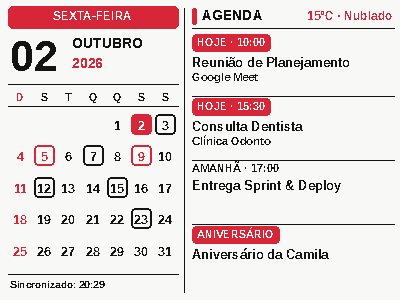
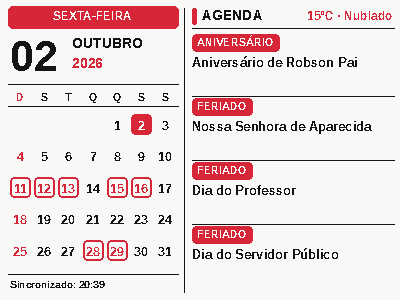
feat(ui): pixel-based title truncation and auto-venv in run_preview

diff --git a/src/ui/components/event_list.py b/src/ui/components/event_list.py
@@ -4,7 +4,7 @@ from datetime import date
 from typing import List, Optional, Tuple
 from ..canvas import EPaperCanvas
 from ..fonts import get_font
-from ..utils import sanitize_text
+from ..utils import sanitize_text, truncate_to_width
 from ...calendar_provider.base import CalendarEvent
 from ...weather import WeatherInfo
 
@@ -21,6 +21,7 @@ def render_event_list(
 ):
     """Renders the agenda and upcoming appointments list with large, bold typography."""
     x0, y0, x1, y1 = rect
+    width = x1 - x0
 
     font_title = get_font("bold", 14)
     font_weather = get_font("bold", 12)
@@ -137,21 +138,15 @@ def render_event_list(
             )
             current_y += 16
 
-        # Title (clean emoji and truncate)
-        clean_title = sanitize_text(ev.summary)
-        max_chars = 24
-        if len(clean_title) > max_chars:
-            clean_title = clean_title[: max_chars - 1].rstrip() + "…"
-
+        # Title: truncate based on actual pixel width
+        display_title = truncate_to_width(ev.summary, font_item_title, max_width_px=width - 4)
         canvas.draw_text(
-            (x0, current_y), clean_title, font=font_item_title, color="black"
+            (x0, current_y), display_title, font=font_item_title, color="black"
         )
 
         # Location if present and fits
         if ev.location and item_h >= 50:
-            loc = sanitize_text(ev.location)
-            if len(loc) > 28:
-                loc = loc[:26].rstrip() + "…"
+            loc = truncate_to_width(ev.location, font_item_sub, max_width_px=width - 4)
             canvas.draw_text(
                 (x0, current_y + 16), loc, font=font_item_sub, color="black"
             )

diff --git a/src/ui/utils.py b/src/ui/utils.py
@@ -18,8 +18,22 @@ def sanitize_text(text: str) -> str:
     """Removes unsupported emoji characters and trims excess whitespace."""
     if not text:
         return ""
-    # Strip emojis to prevent empty square glyph boxes on e-ink
     cleaned = _EMOJI_PATTERN.sub("", text)
-    # Normalize spaces
     cleaned = " ".join(cleaned.split())
     return cleaned
+
+
+def truncate_to_width(text: str, font, max_width_px: int) -> str:
+    """Truncates text with ellipsis based on actual pixel width rather than character count."""
+    if not text:
+        return ""
+    cleaned = sanitize_text(text)
+    bbox = font.getbbox(cleaned)
+    if bbox[2] - bbox[0] <= max_width_px:
+        return cleaned
+
+    cur = cleaned
+    while cur and (font.getbbox(cur + "…")[2] - font.getbbox(cur + "…")[0]) > max_width_px:
+        cur = cur[:-1]
+
+    return cur.rstrip() + "…"

diff --git a/run_preview.py b/run_preview.py
@@ -1,12 +1,19 @@
 #!/usr/bin/env python3
 """Convenience script to generate a calendar preview image without hardware."""
 
+import os
 import sys
 from pathlib import Path
 
 # Add project root to sys.path
 BASE_DIR = Path(__file__).resolve().parent
 sys.path.insert(0, str(BASE_DIR))
+
+# If running with system python, automatically switch to .venv
+if sys.prefix == sys.base_prefix:
+    venv_python = BASE_DIR / ".venv" / "bin" / "python3"
+    if venv_python.exists():
+        os.execv(str(venv_python), [str(venv_python)] + sys.argv)
 
 from src.main import main
 
